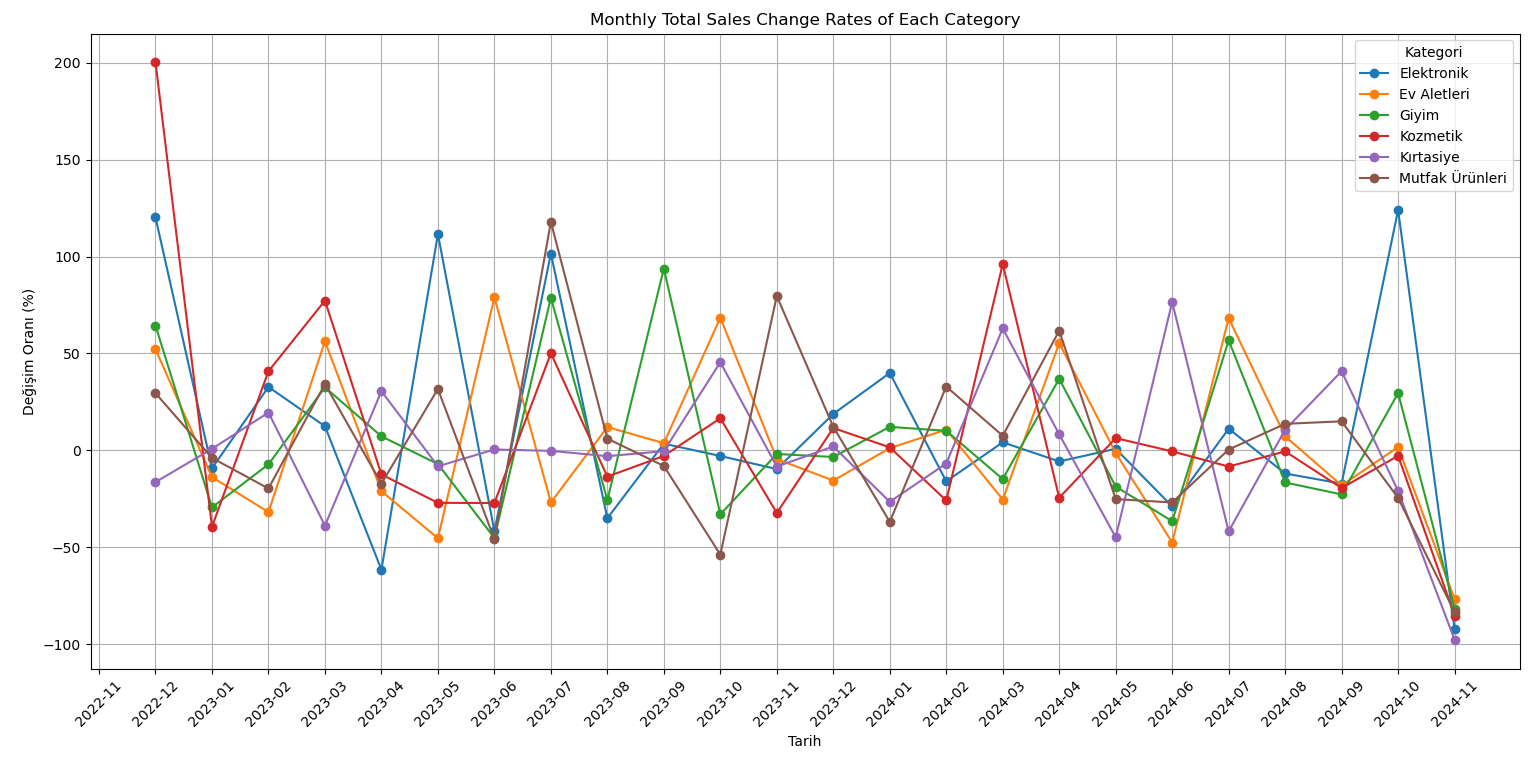
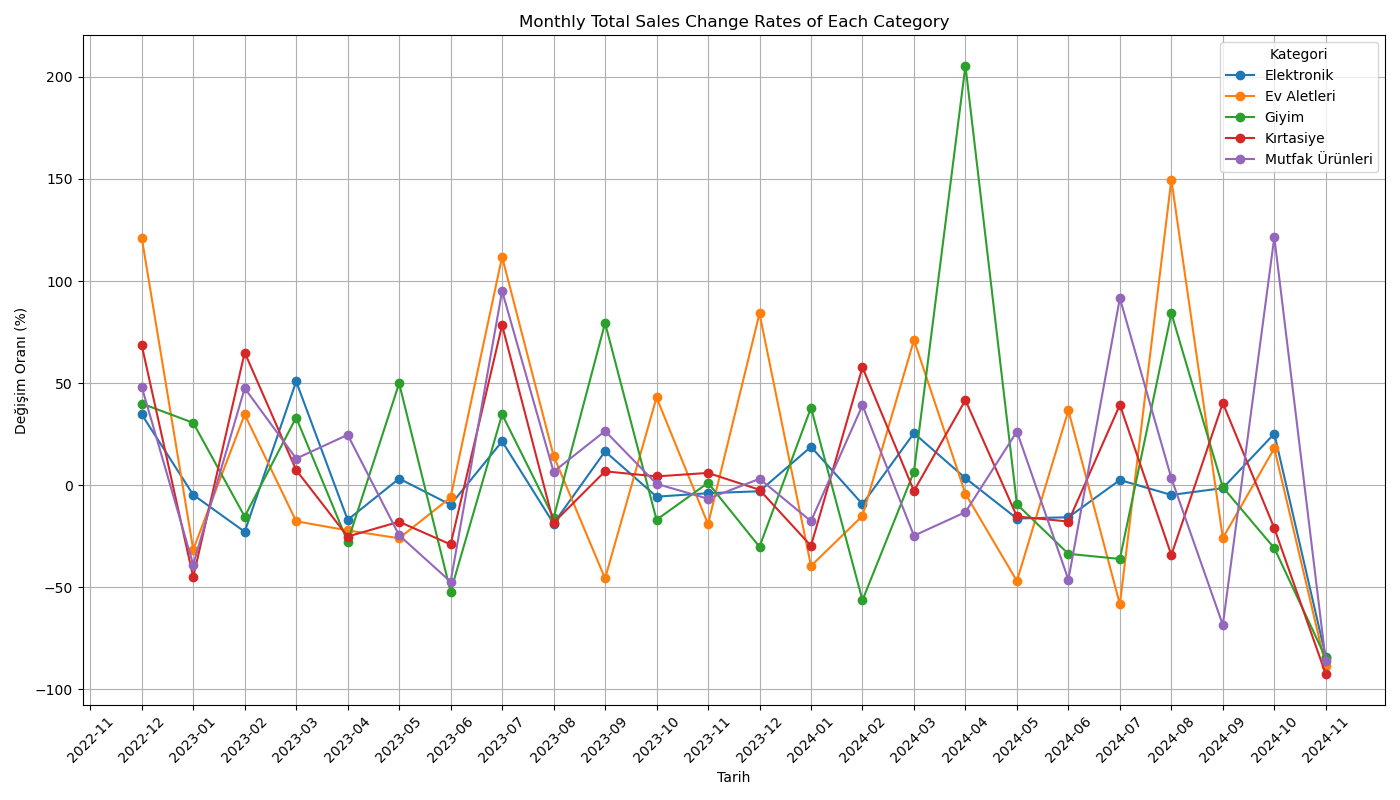
"Added Customer-City Analysis and Product Sales Growth Rate calculation
- Added 'Customer-City Analysis' output
- Added 'Calculate the Average Sales Growth Rate for Each Product' output
- Updated the following graphs and their .png files:
  - monthly_total_sales_of_each_category
  - monthly_total_sales_change_rates_of_each_category"

diff --git a/main.py b/main.py
@@ -489,12 +489,12 @@ Kadın   Ev Aletleri
 ###4.1.1: City Based Analysis
 city_group_sales = merged_df.groupby("sehir")["harcama_miktari"].sum().sort_values(ascending=False)
 
-#print("""
-#      -------------------------------------
-#        Spending by City:
-#      -------------------------------------
-#      """)
-#print(city_group_sales)
+print("""
+      -------------------------------------
+        Spending by City:
+      -------------------------------------
+      """)
+print(city_group_sales)
 
 ###4.1.2: Customer-City Analysis
 customer_city_group_sales = merged_df.groupby(["musteri_id", "sehir"])["harcama_miktari"].sum()
@@ -506,14 +506,25 @@ customer_city_sales = pd.DataFrame({
     "Amount of Expenditure": max_customer_city_group_sales
 })
 
-#print("""
-#      -------------------------------------
-#        Maximum Amount Spending by Customer ID and City:
-#      -------------------------------------
-#      """)
-#print(customer_city_sales)
+print("""
+      -------------------------------------
+        Maximum Amount Spending by Customer ID and City:
+      -------------------------------------
+      """)
+print(customer_city_sales)
 
-
+"""(print)
+           Customer İd  Amount of Expenditure
+sehir
+Gaziantep         8128               23039.85
+Ankara            4342               22392.70
+Bursa             1522               19933.92
+Konya             6095               19473.60
+Adana             8939               19361.36
+İstanbul          3175               19186.56
+Antalya           6869               19183.00
+İzmir             8347               18778.84
+"""
 
 ###4.2: Calculate the Average Sales Growth Rate for Each Product 
 
@@ -521,12 +532,27 @@ product_monthly_sales = merged_df.groupby([merged_df["tarih"].dt.to_period("M"),
 product_monthly_sales_ch = product_monthly_sales.groupby("ürün_adi").pct_change() * 100
 product_average_sales_gr = product_monthly_sales_ch.groupby("ürün_adi").mean()
 
-#print("""
-#      -------------------------------------
-#        Average Sales Growth Rate for Each Product:
-#      -------------------------------------
-#      """)
-#print(product_average_sales_gr)
+print("""
+      -------------------------------------
+        Average Sales Growth Rate for Each Product:
+      -------------------------------------
+      """)
+print(product_average_sales_gr)
+
+"""(print)
+ürün_adi
+Bilgisayar    16.172751
+Defter         9.207474
+Fırın          5.443718
+Kalem         11.632030
+Klima          2.130580
+Kulaklık       6.577236
+Mouse          4.523185
+Su Şişesi      2.097570
+Telefon       -2.015909
+Çanta          4.617467
+Name: adet, dtype: float64
+"""
 
 
 ###4.3: Monthly Total Sales and Change Analysis by Category
